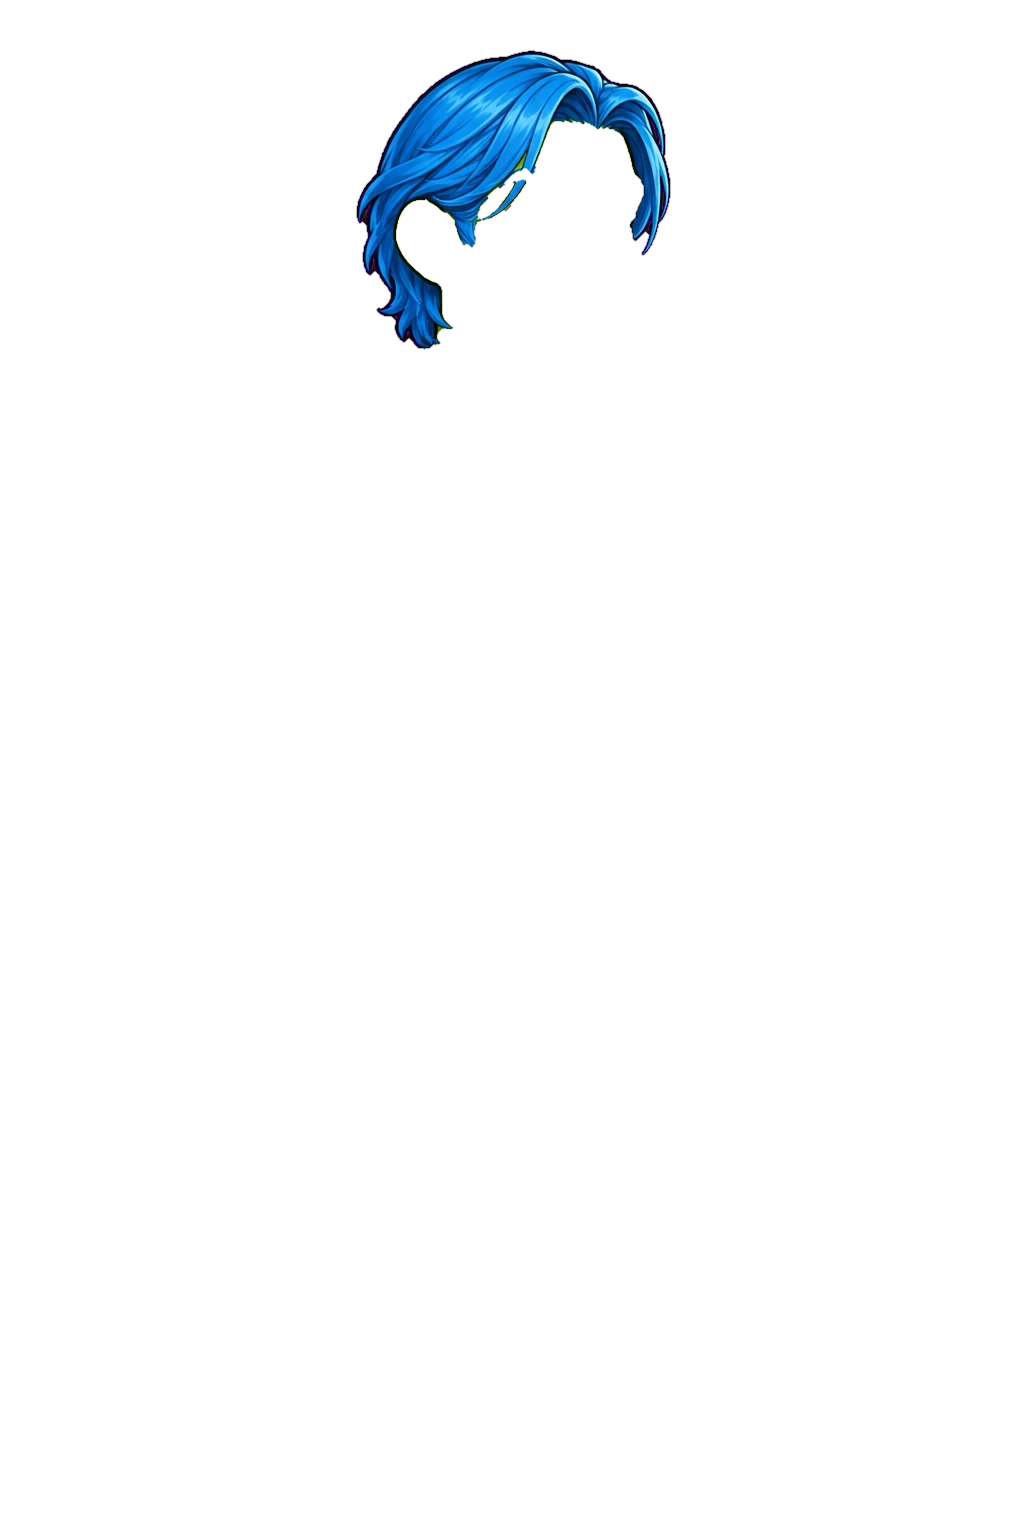
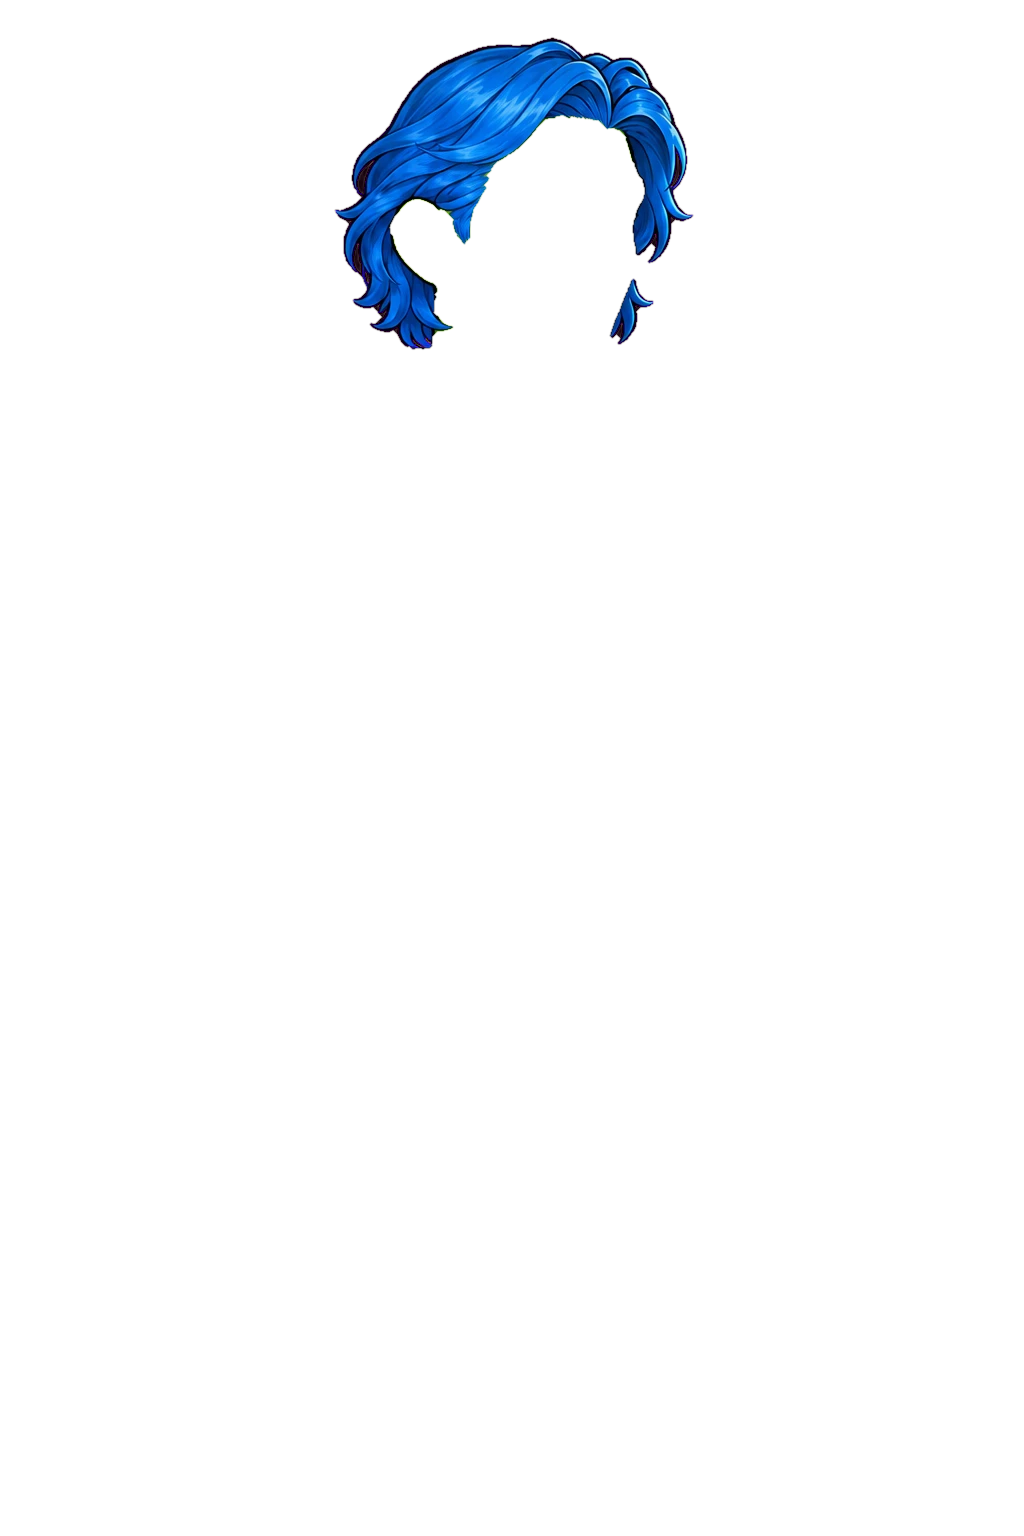
Regenerated middle part (clear of brows); block long wavy on Corwins
Adds a reviewed face/hair blocklist (Bloodline-style kits): rejected pairs
are never offered or randomly generated.

Changed region(s): [[0.3125, 0.0, 0.6875, 0.25], [0.5938, 0.1875, 0.625, 0.2188]]

diff --git a/preview-character/index.html b/preview-character/index.html
@@ -164,7 +164,7 @@ function gradientPart(file, lum, colour) {
 
 // ---- Assembly ---------------------------------------------------------------
 const facesFor = race => M.faces.filter(f => !f.races || f.races.includes(race));
-const hairsFor = face => M.hairs.filter(h => h.fits.includes(face.template));
+const hairsFor = face => M.hairs.filter(h => h.fits.includes(face.template) && !(face.blocked_hair || []).includes(h.id));
 const bodiesFor = face => M.bodies.filter(b => b.template === face.template);
 
 function compose() {

diff --git a/tools/build_preview.py b/tools/build_preview.py
@@ -54,6 +54,11 @@ FACES = [
     ("mira", "mira_bluebrow", "Mira", "f", None),
 ]
 BROWS = {"aldric", "rowan", "mira", "hobb", "pip", "edric", "m1_lean_a", "m6_lean_b", "m2_weathered", "m3_gentle", "m4_stern", "m5_sunworn"}   # art/parts/brows/brows_<id>.png (blue key)
+# Bloodline-style blocklist: face/hair pairs that were reviewed and rejected.
+BLOCKED_HAIR = {
+    "m1_lean_a": ["m_wavy"],   # narrower cheek: far-side strands float off the face
+    "m6_lean_b": ["m_wavy"],
+}
 SCARS = set()  # old scars were painted on retired faces; scars come back as generic layers                     # art/parts/scars/scar_<id>.png (optional layer)
 
 # id, file, label, template
@@ -102,7 +107,7 @@ HAIRS = [  # (id, label, fits, reference image the hair was drawn on[, x nudge])
     ("m_curly", "Curly", ["m"], "male_base"),
     ("m_topknot_soft", "Top-knot", ["m"], "male_base"),
     ("m_buzz", "Buzz cut", ["m"], "male_base"),
-    # regenerating (strand over brow caused brow artifacts): ("m_midpart", "Middle part", ["m"], "male_base"),
+    ("m_midpart", "Middle part", ["m"], "male_base"),
     ("spiky02", "Spiky", ["m"], "aldric_bald_01"),
     ("slicked01", "Slicked back", ["m"], "aldric_bald_01"),
     # replaced by m_topknot_soft: ("topknot02", "Top-knot (shaved)", ["m"], "aldric_bald_limekey"),
@@ -247,6 +252,8 @@ def main():
             extra["brows"] = {**save_part(b, f"brows_{fid}"), "lum": lum_range(b)}
         if fid in SCARS:
             extra["scar"] = save_part(np.asarray(Image.open(PARTS / "scars" / f"scar_{fid}.png").convert("RGBA")).copy(), f"scar_{fid}")
+        if fid in BLOCKED_HAIR:
+            extra["blocked_hair"] = BLOCKED_HAIR[fid]
         faces.append({**extra, "id": fid, "label": label, "template": tpl, "group": tpl, "skull": skull(a), "races": races,
                       "lime": True, "part": save_part(head, f"head_{fid}", True, hue_lo=40)})
 
